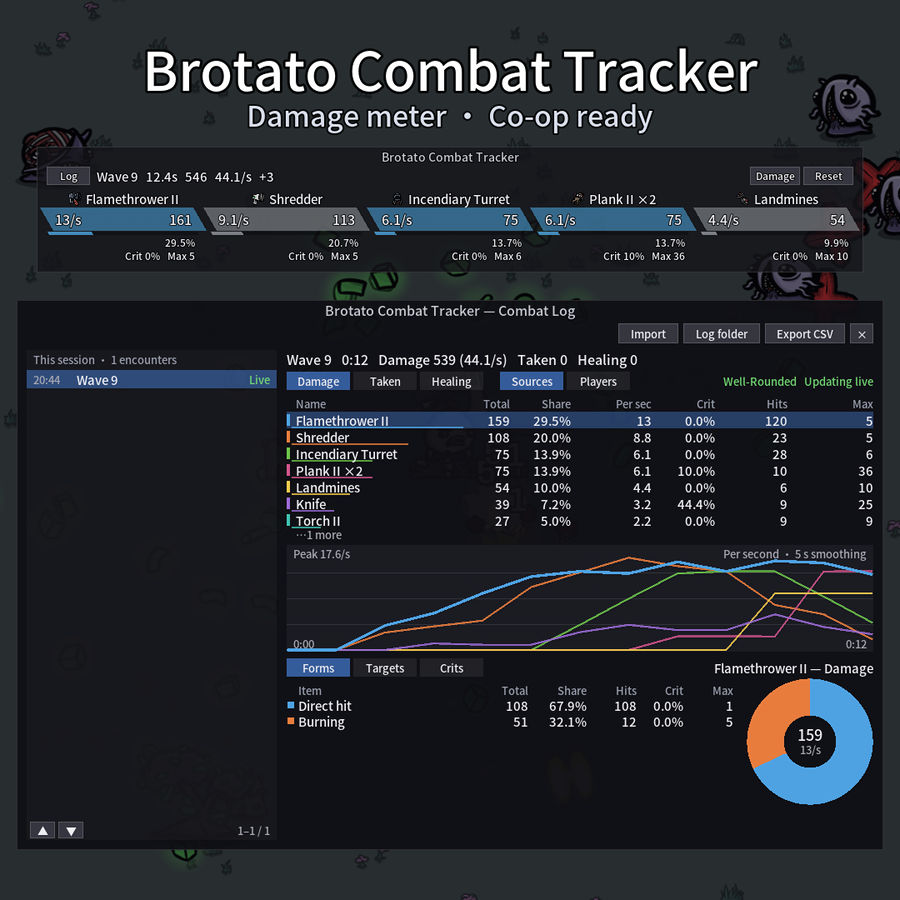
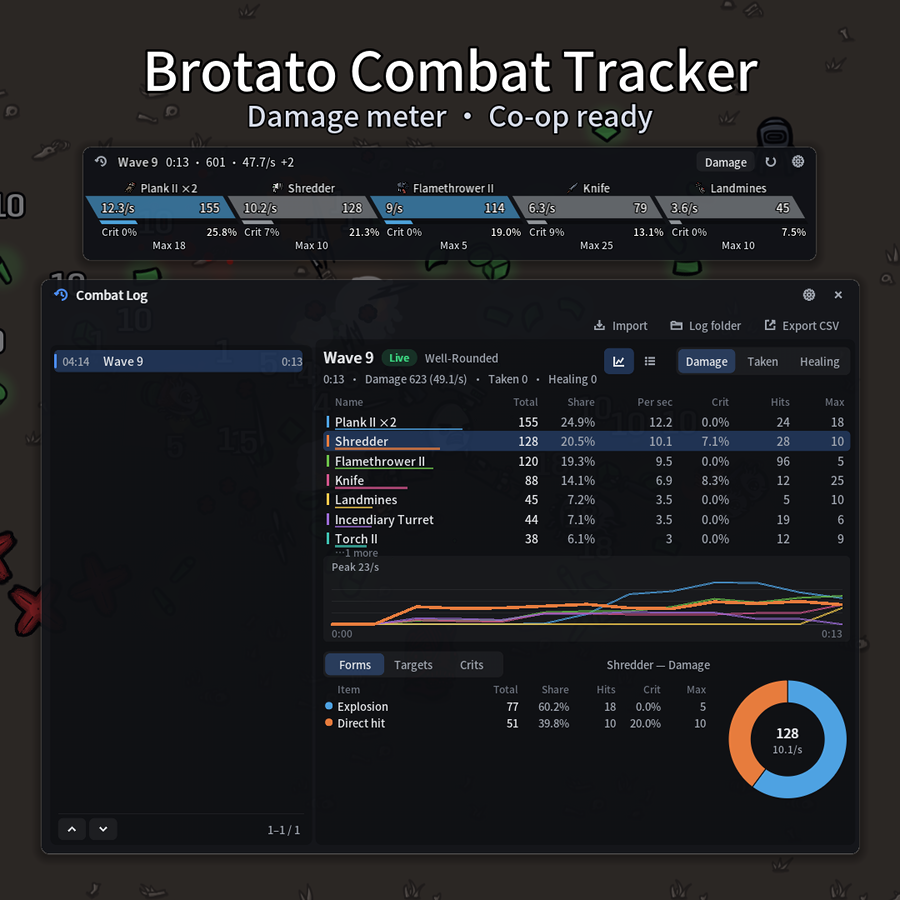
README、开发文档、创意工坊文案和预览图更新到新界面

diff --git a/README.md b/README.md
@@ -3,16 +3,16 @@
 **简体中文** | [English](README.en.md)
 
 给 **Brotato（土豆兄弟）** 用的战斗统计面板。横向悬浮窗，按武器 / 物品拆分输出、承伤、治疗，
-点开任一卡片可看命中形式、目标、暴击的饼图明细，按波次自动分段，可导出 CSV。
-另有一个仿 ACT 的战斗记录主面板：每一波都能回看，每局的战斗事件自动存成日志，可以导入重新解析。
-面板文本跟随游戏语言。
+点开任一卡片可看命中形式、目标、暴击的环形图明细，按波次自动分段，可导出 CSV。
+另有一个仿 ACT 的战斗记录窗口：每一波都能回看、能看逐条事件，每局的战斗事件自动存成日志，可以导入重新解析。
+设置都能在游戏里改。界面文本跟随游戏语言。
 
 **只读统计，不修改任何游戏数值。** 支持原版单机、本地合作（最多 4 人），
 以及创意工坊的 [BrotatoOnline](https://steamcommunity.com/sharedfiles/filedetails/?id=3741034628) 联机 Mod。
 
 当前适配：游戏 **1.1.15.4**（本体与 DLC Abyssal Terrors），Mod Loader **6.3.0**。
 
-![浮窗与战斗记录主面板](docs/images/preview-zh.png)
+![浮窗与战斗记录窗口](docs/images/preview-zh.png)
 
 ---
 
@@ -46,24 +46,26 @@ Brotato\
 | 按键 | 作用 |
 |---|---|
 | `F9` | 显示 / 隐藏浮窗 |
-| `F8` | 打开 / 关闭战斗记录主面板 |
+| `F8` | 打开 / 关闭战斗记录 |
 | `F10` | 重置当前统计（同一波切出新的一段，旧的一段收进战斗记录） |
 | `F11` | 把当前这一段导出成 CSV |
 
-- 浮窗标题栏的按钮在 **输出 / 承伤 / 治疗** 三个视图间切换；多人时多一个 **来源 / 玩家** 切换；整个浮窗可拖动，位置自动保存
-- **点击卡片**弹出明细：
+- 浮窗平时只有文字和卡片浮在游戏上（字带黑色描边）；鼠标移上去，半透明的背景和标题栏按钮才出现
+- 浮窗标题栏：最左的记录图标打开战斗记录；右边依次是视图切换（**输出 / 承伤 / 治疗**，多人时还有 **来源 / 玩家**）、重置、设置
+- **点击卡片**弹出拆分窗口，环形图 + 图例，图例超过 7 项时用滚轮翻：
   - 输出 · 来源：形式（直接命中 / 燃烧 / 爆炸 / 效果）、目标（打了哪些敌人）、暴击
   - 输出 · 玩家：来源（武器 / 物品）、类别（近战 / 远程 / 元素 / 工程…）、目标
   - 承伤：来源（被哪些敌人打）、结果（命中 / 闪避 / 抵挡）
   - 治疗：来源（生命再生 / 生命窃取 / 物品 / 消耗品…）
 - 按波次自动分段，标题跟游戏一致，如「第 5 波 · 精英」；同一波失败后重打带序号「第 5 波 #2」
 - 同名同品质的武器合成一张卡片，名字后面带把数，如「冲锋枪 III ×2」
+- 窗口按住就能拖，位置会记住；图标按钮悬停一会儿有文字提示
 
 浮窗只在波次进行中显示：暂停菜单、收波后的升级选择、商店里都会自动让开，免得挡住游戏自己的按钮。
-想在波次之间看数据按 `F8`，主面板哪里都能开。战斗中游戏会把鼠标藏起来，暂停后再点面板最方便。
+想在波次之间看数据按 `F8`，战斗记录哪里都能开。战斗中游戏会把鼠标藏起来，暂停后再点面板最方便。
 
 伤害默认**不计溢出**（打死怪时超出它剩余血量的部分），和游戏里武器伤害统计的口径一致；
-想按原始伤害算，把配置里的 `CountOverkill` 改成 `true`。
+想按原始伤害算，在设置里打开「计入溢出伤害」。
 
 ### 谁的伤害算谁的
 
@@ -79,21 +81,31 @@ Brotato\
 这些规则照着游戏自己的记账逻辑来，比如燃烧炮塔、受惊香肠在游戏里的伤害统计也是这么算的。
 对树木的伤害默认不计（配置 `IncludeTrees`）。
 
-### 战斗记录主面板
+### 战斗记录
 
-浮窗标题栏最左的「记录」（或 `F8`）打开，形制参考 ACT 的主窗口：
+浮窗标题栏最左的记录图标（或 `F8`）打开，形制参考 ACT 的主窗口：
 
-- **左边**是本局的全部分段，最新的在上面，进行中的那段标「实时」
-- **右边**是选中那段的统计：输出 / 承伤 / 治疗的表格（总量、占比、每秒、暴击 / 闪避、次数、最高），
-  按来源或按玩家分组，每一行每秒数值随时间变化的曲线，以及选中那一行的拆分表和饼图
+- **左边**是本局的全部分段，最新的在上面；底部显示当前看到的是第几到第几段、一共多少段
+- **右边**是选中那段的统计，进行中的那段标「实时」：输出 / 承伤 / 治疗的表格（总量、占比、每秒、暴击 / 闪避、次数、最高），
+  多人时可按来源或按玩家分组；每一行每秒数值随时间变化的曲线（鼠标移上去看每一秒的数值）；以及拆分表和环形图。
+  点表格里的一行只看它，再点一次或点空白处取消、回到全部；拆分表的行和环形图互相高亮，超过 8 项时用滚轮翻看，
+  环上第 8 项之后的、占比太小画不出来的并成灰色的「其他」
+- 右上角可以把下半截换成**逐条事件**：这一段的每一次伤害 / 承伤 / 治疗按时间排开（来源、目标、数值、暴击、形式），
+  同样跟着视图和选中的行筛选。实时那段跟着最新的往下滚，已经结束的段和导入的日志从日志文件里读
 - 顶部的「导出 CSV」导出选中的那段；「日志目录」打开存日志的文件夹
+
+### 设置
+
+浮窗或战斗记录标题栏上的齿轮打开：界面缩放、卡片斜切、窗口背景的浓淡、浮窗卡片数、图标、商店里显示浮窗、
+是否计入溢出伤害和树木、战斗记录保留多少段、联机互传、战斗日志、热键、玩家颜色都能直接改，改完自动存进配置文件。
+标着「重启后生效」的两项（战斗日志）下次启动游戏才生效。
 
 ### 战斗日志
 
 每次游戏都会把战斗**事件**（每一次伤害、承伤、治疗、波次开始和结束…）写进一份日志：
 `%APPDATA%\Brotato\CombatTracker\logs\bct-日期-时间.bctlog.gz`，标准 gzip，解压后逐行可读；默认保留 30 天。
 
-主面板的「导入」可以打开任意一份日志，**按当前版本重新解析**——以后更新加了新的统计维度，旧日志导入也能看到。
+战斗记录的「导入」可以打开任意一份日志，**按当前版本重新解析**——以后更新加了新的统计维度，旧日志导入也能看到。
 别人的日志放进这个文件夹也能导入。格式说明见[战斗日志格式](docs/eventlog.md)。
 
 ---
@@ -104,33 +116,35 @@ Brotato\
 - **BrotatoOnline（创意工坊联机 Mod）**：联机时每台机器只模拟自己玩家的命中，没有哪一台机器看得到全队的伤害。
   所以每人只统计自己的玩家，每 2 秒通过 BrotatoOnline 公开的 Mod 消息接口把这一波的统计发给队友，
   收波时再发一次最终版。**队友也装了本 Mod 才看得到他的数据**，没装的队友就是空的，不影响其他人。
-  房主、客机都一样；不想分享，把配置里的 `ShareStats` 改成 `false`
+  房主、客机都一样；不想分享，在设置里关掉「联机互传统计」。逐条事件里只有本机玩家的（队友只传汇总）
 - 队友的最终数据会写进你自己的战斗日志，日后导入也能看到整队
 
 ---
 
 ## 配置
 
-`%APPDATA%\Brotato\CombatTracker\config.cfg`，**游戏启动一次后才会生成**，每项都有中英说明，改完重启游戏。
+`%APPDATA%\Brotato\CombatTracker\config.cfg`，**游戏启动一次后才会生成**，每项都有中英说明。
+下面这些在游戏里的设置界面都能改；直接改文件的话要重启游戏。
 
 | 配置项 | 默认 | 说明 |
 |---|---|---|
-| `ToggleOverlay` / `ToggleMainPanel` / `Reset` / `ExportCsv` | F9 / F8 / F10 / F11 | 热键 |
+| `ToggleOverlay` / `ToggleMainPanel` / `Reset` / `ExportCsv` | F9 / F8 / F10 / F11 | 热键，留空为不用 |
 | `ShowOverlay` | true | 启动时显示浮窗 |
 | `ShowInShop` | false | 商店里也显示浮窗（显示刚打完的那一波） |
-| `UiScale` | 1.0 | 面板缩放 |
+| `UiScale` | 1.0 | 界面缩放 |
 | `SkewDegrees` | -30 | 卡片斜切角度，`0` 为普通矩形 |
+| `BackgroundOpacity` | 0.9 | 浮窗、拆分窗口和战斗记录背景的不透明度（0–1）；浮窗只在鼠标移上去时显示背景 |
 | `MaxCards` | 5 | 浮窗最多几张卡片，其余计入标题栏的「+n」 |
 | `ShowIcons` | true | 卡片上显示武器 / 物品图标 |
 | `CountOverkill` | false | 伤害计入溢出 |
 | `IncludeTrees` | false | 统计对树木的伤害 |
-| `HistorySize` | 200 | 主面板里本局保留多少段，更早的仍在日志里；`0` 为不限 |
-| `LogEvents` | true | 写战斗日志 |
+| `HistorySize` | 200 | 战斗记录里本局保留多少段，更早的仍在日志里；`0` 为不限 |
+| `LogEvents` | true | 写战斗日志；关掉的话结束的段看不了逐条事件，也不能导入本局 |
 | `LogRetentionDays` | 30 | 战斗日志保留天数，`0` 为永久保留 |
 | `ShareStats` | true | 联机时与队友互传统计 |
 
-`[Colors]` 段可以自定义四名玩家的颜色（`#RGB` / `#RRGGBB`），留空用游戏里的玩家颜色。
-浮窗、主面板、明细窗口的位置由面板自己写回配置。
+`[Colors]` 段可以自定义四名玩家的颜色（设置界面里有一组预设色可选），也可以直接写十六进制值（`#RGB` / `#RRGGBB`），
+留空用游戏里的玩家颜色。各窗口的位置由窗口自己写回配置。
 
 ---
 
@@ -145,12 +159,13 @@ Brotato\
 
 **Steam 版把 zip 放进 `mods` 不生效** — Steam 版只加载订阅的创意工坊条目，请走创意工坊。
 
-**鼠标点不到面板** — 战斗中游戏会把鼠标藏起来（手柄 / 键盘操作、多人时）。暂停后再点；按 `F8` 打开主面板时也会把鼠标放出来。
+**鼠标点不到面板** — 战斗中游戏会把鼠标藏起来（手柄 / 键盘操作、多人时）。暂停后再点；按 `F8` 打开战斗记录时也会把鼠标放出来。
+浮窗的按钮只在鼠标移到浮窗上时才出现。
 
 **和游戏里武器的「伤害」统计对不上** — 游戏的武器统计包含对树木的伤害，本 Mod 默认不计；
 另外游戏会把一部分伤害同时记在武器和物品名下（比如受惊香肠的燃烧），本 Mod 每一点伤害只算一次。
 
-**联机时看不到队友** — 队友也要装本 Mod，且双方都没关 `ShareStats`。
+**联机时看不到队友** — 队友也要装本 Mod，且双方都没关「联机互传统计」（`ShareStats`）。
 
 **日志里有 `pd_player.gd` 找不到的报错** — Mod Loader 给 `player.gd` 装扩展时会顺带重载游戏开发时的测试类，
 那个文件没打进游戏，报错无害。只要有 Mod 扩展 `player.gd` 就会出现（BrotatoOnline 也一样）。

diff --git a/README.en.md b/README.en.md
@@ -3,10 +3,10 @@
 [简体中文](README.md) | **English**
 
 A combat statistics panel for **Brotato**. A horizontal overlay that breaks down damage dealt, damage taken
-and healing per weapon and item; click any card for a pie-chart breakdown by hit form, target and crits;
+and healing per weapon and item; click any card for a donut-chart breakdown by hit form, target and crits;
 statistics segment automatically per wave; CSV export. An ACT-style combat log window lets you review every
-wave, and each session's combat events are saved to a log that can be imported and re-parsed.
-The panel text follows the game's language.
+wave and list its individual events, and each session's combat events are saved to a log that can be imported
+and re-parsed. Everything can be set up in-game. The UI text follows the game's language.
 
 **Read-only statistics. It never modifies any game value.** Works in vanilla solo, local co-op (up to 4 players)
 and with the Workshop co-op mod [BrotatoOnline](https://steamcommunity.com/sharedfiles/filedetails/?id=3741034628).
@@ -52,22 +52,25 @@ Brotato\
 | `F10` | Reset the current statistics (splits the wave into a new encounter; the old one moves to the combat log) |
 | `F11` | Export the current encounter as a CSV |
 
-- The overlay's title-bar buttons switch between the **Damage / Taken / Healing** views; with several players there
-  is also a **Sources / Players** toggle; the whole overlay can be dragged and remembers its position
-- **Click a card** for details:
+- Normally only the text (with a black outline) and the cards float over the game; move the cursor onto the overlay
+  and its translucent background and title-bar buttons fade in
+- Overlay title bar: the log icon on the far left opens the combat log; on the right are the view switch
+  (**Damage / Taken / Healing**, plus **Sources / Players** with several players), reset and settings
+- **Click a card** for its breakdown window, a donut chart with a legend that scrolls past 7 items:
   - Damage · source: forms (direct hit / burning / explosion / effect), targets (which enemies it hit), crits
   - Damage · player: sources (weapons / items), classes (melee / ranged / elemental / engineering…), targets
   - Taken: sources (which enemies hit you), outcomes (hit / dodged / blocked)
   - Healing: sources (HP regeneration / life steal / items / consumables…)
 - Statistics segment per wave with the game's own wave titles, e.g. `Wave 5 · Elite`; replaying a failed wave adds a repeat number, e.g. `Wave 5 #2`
 - Identical weapons of the same tier share one card with a count, e.g. `SMG III ×2`
+- Every window can be dragged and remembers its position; hover over an icon button for a moment to see what it does
 
 The overlay only shows while a wave is running: it steps aside for the pause menu, the level-up choices after a wave
 and the shop, so it never covers the game's own buttons. To look at data between waves press `F8`; the combat log
 window opens anywhere. The game hides the mouse during waves, so it's easiest to click the panels while paused.
 
 Damage **excludes overkill** by default (damage beyond the target's remaining HP), matching the game's own weapon
-damage counters; set `CountOverkill` to `true` in the config to count raw damage instead.
+damage counters; turn on "Count overkill" in the settings to count raw damage instead.
 
 ### Who gets the credit
 
@@ -85,13 +88,25 @@ same way in the game's own statistics. Damage to trees is excluded by default (c
 
 ### Combat log window
 
-Open it with **Log** at the far left of the overlay's title bar (or `F8`). It is modelled on ACT's main window:
+Open it with the log icon at the far left of the overlay's title bar (or `F8`). It is modelled on ACT's main window:
 
-- **Left**: every encounter of this session, newest first; the one in progress is marked **Live**
-- **Right**: the selected encounter — a table for Damage / Taken / Healing (total, share, per second, crit / dodge,
-  hits, max) grouped by source or by player, each row's per-second curve over time, and the selected row's
-  breakdown as a table and a pie chart
+- **Left**: every encounter of this session, newest first; the footer shows which encounters are in view and how many there are
+- **Right**: the selected encounter, marked **Live** while it is in progress — a table for Damage / Taken / Healing
+  (total, share, per second, crit / dodge, hits, max), grouped by source or by player in co-op; each row's per-second
+  curve over time (hover to read any second); and a breakdown table with a donut chart. Click a row to focus on it,
+  click it again or any empty space to go back to everyone; breakdown rows and donut slices highlight each other,
+  the table scrolls past 8 items, and the small items past the eighth are merged into a grey "Other" slice
+- The top-right toggle swaps the lower half for an **event list**: every hit, damage taken and heal of the encounter
+  in order (source, target, amount, crit, form), filtered by the current view and the selected row. The live encounter
+  follows the newest events; ended encounters and imported logs are read back from the log file
 - **Export CSV** at the top exports the selected encounter; **Log folder** opens the folder the logs are kept in
+
+### Settings
+
+The gear in the overlay's or the combat log's title bar opens them: UI scale, card slant, window background opacity,
+overlay card count, icons, overlay in the shop, overkill and trees, how many encounters the combat log keeps,
+sharing stats online, combat logs, hotkeys and player colours can all be changed there and are saved to the config
+file right away. The two items marked "Needs restart" (combat logs) take effect the next time the game starts.
 
 ### Combat logs
 
@@ -113,7 +128,7 @@ them in that folder. The format is documented in [combat log format](docs/eventl
   2 seconds, sends this wave's statistics to the teammates through BrotatoOnline's public mod-message API, plus a
   final version when the wave ends. **You only see a teammate's numbers if they run this mod too**; teammates
   without it simply show nothing, and nobody else is affected. Host and clients behave the same; to opt out,
-  set `ShareStats` to `false`
+  turn off "Share stats online" in the settings. The event list only has your own player's events (teammates send totals)
 - Teammates' final numbers are written into your own combat log, so importing it later shows the whole team
 
 ---
@@ -121,26 +136,28 @@ them in that folder. The format is documented in [combat log format](docs/eventl
 ## Configuration
 
 `%APPDATA%\Brotato\CombatTracker\config.cfg` is **created after the game has been launched once**; every entry has a
-Chinese and an English description. Restart the game after editing it.
+Chinese and an English description. Everything below can be changed in the in-game settings; if you edit the file
+directly, restart the game.
 
 | Setting | Default | Description |
 |---|---|---|
-| `ToggleOverlay` / `ToggleMainPanel` / `Reset` / `ExportCsv` | F9 / F8 / F10 / F11 | Hotkeys |
+| `ToggleOverlay` / `ToggleMainPanel` / `Reset` / `ExportCsv` | F9 / F8 / F10 / F11 | Hotkeys; empty for none |
 | `ShowOverlay` | true | Show the overlay at startup |
 | `ShowInShop` | false | Also show the overlay in the shop (it shows the wave just finished) |
-| `UiScale` | 1.0 | Panel scale |
+| `UiScale` | 1.0 | UI scale |
 | `SkewDegrees` | -30 | Skew angle of the cards; `0` for plain rectangles |
+| `BackgroundOpacity` | 0.9 | Background opacity of the overlay, breakdown and combat log windows (0–1); the overlay shows its background only while the cursor is on it |
 | `MaxCards` | 5 | Max cards on the overlay; the rest are counted as `+n` in the title bar |
 | `ShowIcons` | true | Show weapon / item icons on the cards |
 | `CountOverkill` | false | Count overkill damage |
 | `IncludeTrees` | false | Count damage dealt to trees |
 | `HistorySize` | 200 | How many encounters of this session the combat log window keeps (older ones stay in the log file); `0` for no limit |
-| `LogEvents` | true | Write combat logs |
+| `LogEvents` | true | Write combat logs; when off, ended encounters have no event list and this session can't be imported |
 | `LogRetentionDays` | 30 | Days to keep combat logs; `0` keeps them forever |
 | `ShareStats` | true | Exchange statistics with teammates online |
 
-The `[Colors]` section lets you customise the four player colours (`#RGB` / `#RRGGBB`); leave them empty for the
-game's player colours. The positions of the overlay, combat log window and detail window are written back by the panels.
+The `[Colors]` section holds the four player colours (the settings offer a set of presets), or write hex values
+(`#RGB` / `#RRGGBB`); leave them empty for the game's player colours. Each window writes its own position back.
 
 ---
 
@@ -158,13 +175,14 @@ hidden, and check under **Mods** in the main menu that the mod is enabled. If it
 **Putting the zip in `mods` does nothing on Steam** — the Steam version only loads subscribed Workshop items. Use the Workshop.
 
 **Can't click the panels** — the game hides the mouse during waves (gamepad / keyboard play, and always in co-op).
-Pause first; opening the combat log window with `F8` also brings the cursor back.
+Pause first; opening the combat log window with `F8` also brings the cursor back. The overlay's buttons only appear
+while the cursor is on it.
 
 **The numbers differ from the game's weapon "damage" stat** — the game's weapon stat includes damage to trees, which
 this mod leaves out by default; the game also books some damage under both a weapon and an item (Scared Sausage burn,
 for instance), whereas this mod counts every point of damage exactly once.
 
-**Can't see my teammates online** — they need this mod as well, and neither side may have turned off `ShareStats`.
+**Can't see my teammates online** — they need this mod as well, and neither side may have turned off "Share stats online" (`ShareStats`).
 
 **The log mentions a missing `pd_player.gd`** — when Mod Loader installs an extension of `player.gd` it also reloads a
 test class from the game's development project, which isn't shipped with the game. The error is harmless and

diff --git a/docs/eventlog.md b/docs/eventlog.md
@@ -26,7 +26,7 @@
 
 - 第一行 `#BCTLOG|版本号`。读的时候没有这一行就不认作战斗日志。
 - `#META` 是键值对：`mod` 本 Mod 版本、`game` 游戏版本、`start` 开始的本地时间、`start_unix` 同一时刻的 Unix 时间。
-- `#END` 是正常退出时写的结束标记。没有它说明游戏被强杀或还在写——读到哪算哪，主面板会提示「末尾不完整」。
+- `#END` 是正常退出时写的结束标记。没有它说明游戏被强杀或还在写——读到哪算哪，战斗记录会提示「末尾不完整」。
 - 其它以 `#` 开头的行是注释。
 
 ## 事件
@@ -51,7 +51,7 @@
 - **标签**：位标志，`1` Boss 波、`2` 精英波、`4` 怪潮波、`8` 无尽模式。`start` 时知道多少写多少，Boss 出场时再补一条 `tags`，`end` 时写最终值。
 - **局序**：本次游戏里第几局。换角色、回过标题、波次倒退、没失败又重打同一波（从暂停菜单重开）都算新的一局；
   同一波失败后重来算同一局，解析器据此给标题加「#2」。
-- **开始时刻**：开波时的 Unix 时间，主面板列表里的「20:29」由它换算。
+- **开始时刻**：开波时的 Unix 时间，战斗记录列表里的「20:29」由它换算。
 - **来源 / 目标 / 攻击者**是不随语言变的键，显示名在导入时按当时的游戏语言现查：
 
   | 键 | 含义 |
